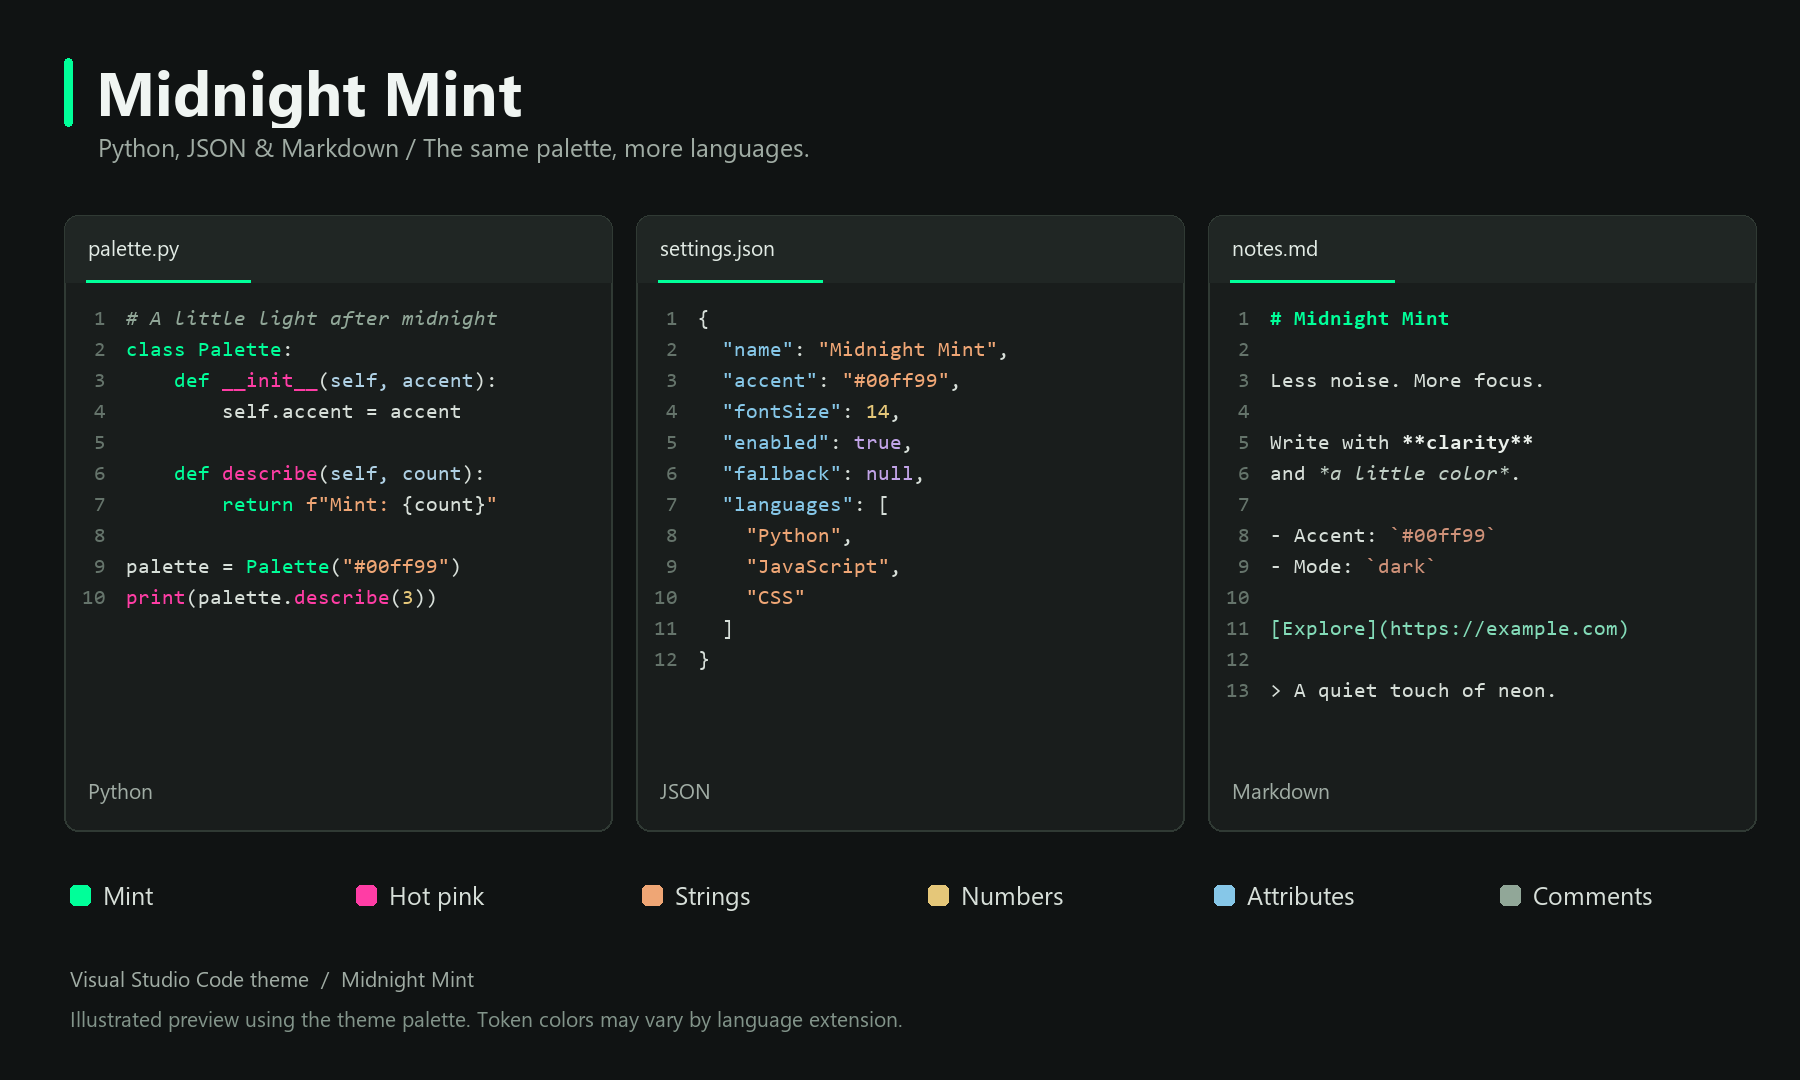
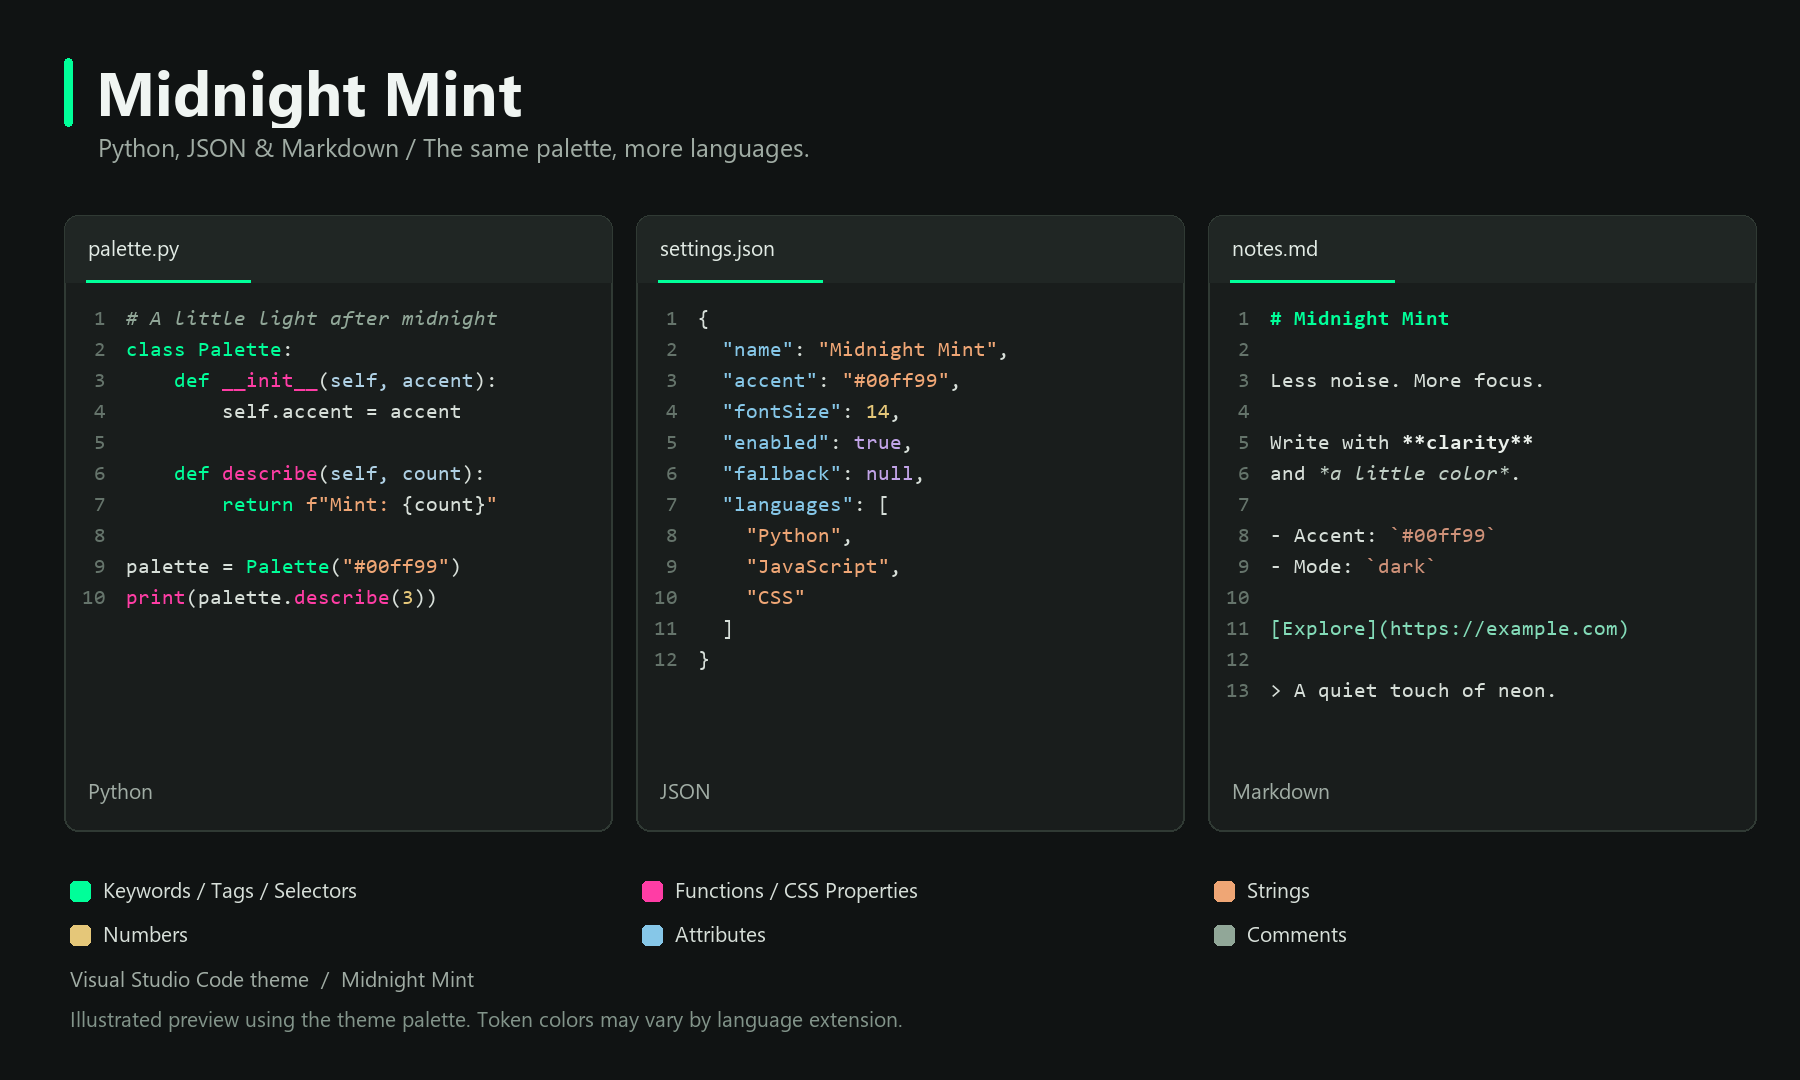
Label preview color swatches by syntax role

diff --git a/scripts/render-previews.py b/scripts/render-previews.py
@@ -86,10 +86,11 @@ def render_cards(examples):
 
 render_cards([('hello.js', 'JavaScript', js), ('index.html', 'HTML', html), ('theme.css', 'CSS', css)])
 
-for index, (token, caption) in enumerate([('mint', 'Mint'), ('pink', 'Hot pink'), ('orange', 'Strings'), ('gold', 'Numbers'), ('blue', 'Attributes'), ('comment', 'Comments')]):
-    x = 70 + index * 286
-    draw.rounded_rectangle((x, 885, x + 20, 905), 5, fill=palette[token])
-    draw.text((x + 33, 878), caption, font=label, fill='#d7dfd9')
+for index, (token, caption) in enumerate([('mint', 'Keywords / Tags / Selectors'), ('pink', 'Functions / CSS Properties'), ('orange', 'Strings'), ('gold', 'Numbers'), ('blue', 'Attributes'), ('comment', 'Comments')]):
+    x = 70 + (index % 3) * 572
+    y = 875 + (index // 3) * 44
+    draw.rounded_rectangle((x, y + 6, x + 20, y + 26), 5, fill=palette[token])
+    draw.text((x + 33, y), caption, font=small, fill='#d7dfd9')
 draw.text((70, 964), 'Visual Studio Code theme  /  Midnight Mint', font=small, fill='#a0aca4')
 draw.text((70, 1004), 'Illustrated preview using the theme palette. Token colors may vary by language extension.', font=small, fill='#82948a')
 (package / 'images').mkdir(exist_ok=True)
